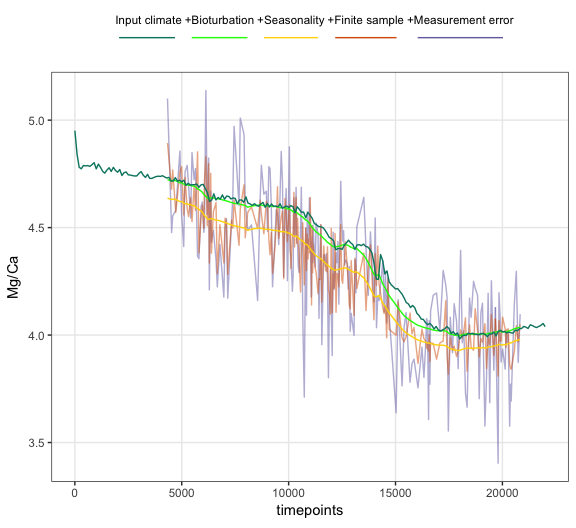
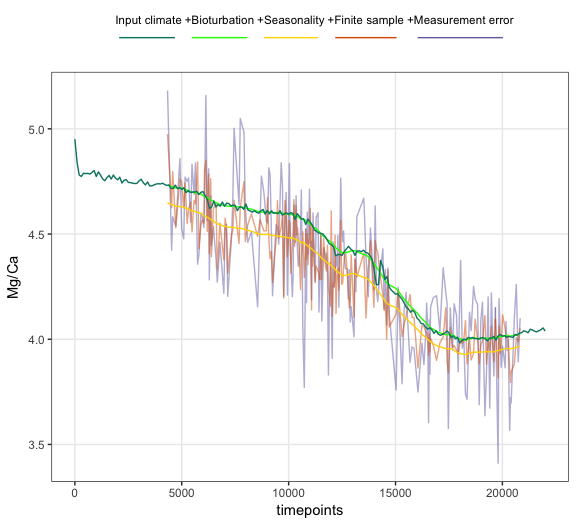
push example

diff --git a/readme.md b/readme.md
@@ -135,16 +135,16 @@ PFM$everything
 ## # A tibble: 8,213 x 4
 ##    timepoints replicate              stage    value
 ##         <dbl>     <dbl>              <chr>    <dbl>
-##  1       4334         1 proxy.bt.sb.sampYM 28.34462
-##  2       4527         1 proxy.bt.sb.sampYM 27.32945
-##  3       4576         1 proxy.bt.sb.sampYM 28.01622
-##  4       4721         1 proxy.bt.sb.sampYM 27.22198
-##  5       4914         1 proxy.bt.sb.sampYM 27.34826
-##  6       4994         1 proxy.bt.sb.sampYM 27.90423
-##  7       5092         1 proxy.bt.sb.sampYM 27.86784
-##  8       5156         1 proxy.bt.sb.sampYM 27.75665
-##  9       5254         1 proxy.bt.sb.sampYM 27.46941
-## 10       5318         1 proxy.bt.sb.sampYM 27.29800
+##  1       4334         1 proxy.bt.sb.sampYM 28.52609
+##  2       4527         1 proxy.bt.sb.sampYM 27.48838
+##  3       4576         1 proxy.bt.sb.sampYM 28.02794
+##  4       4721         1 proxy.bt.sb.sampYM 27.19180
+##  5       4914         1 proxy.bt.sb.sampYM 27.38228
+##  6       4994         1 proxy.bt.sb.sampYM 27.85321
+##  7       5092         1 proxy.bt.sb.sampYM 27.87501
+##  8       5156         1 proxy.bt.sb.sampYM 27.83270
+##  9       5254         1 proxy.bt.sb.sampYM 27.46396
+## 10       5318         1 proxy.bt.sb.sampYM 27.36841
 ## # ... with 8,203 more rows
 ```
 
@@ -174,11 +174,11 @@ PFM$everything %>%
 
 | timepoints|stage           |     1|     2|     3|     4|     5|     6|     7|     8|     9|    10|
 |----------:|:---------------|-----:|-----:|-----:|-----:|-----:|-----:|-----:|-----:|-----:|-----:|
-|       4334|simulated.proxy | 28.59| 27.24| 27.85| 27.82| 28.75| 27.67| 28.24| 27.61| 28.45| 27.48|
-|       4527|simulated.proxy | 27.39| 27.74| 27.18| 27.68| 28.97| 27.14| 26.70| 27.64| 28.06| 28.13|
-|       4576|simulated.proxy | 28.52| 27.93| 27.88| 27.69| 27.36| 27.86| 27.95| 28.40| 27.17| 27.99|
-|       4721|simulated.proxy | 27.72| 27.18| 28.37| 26.73| 27.36| 27.41| 28.22| 27.74| 27.84| 27.45|
-|       4914|simulated.proxy | 27.44| 27.90| 27.40| 29.15| 27.55| 28.36| 28.29| 28.63| 28.08| 28.43|
+|       4334|simulated.proxy | 28.77| 27.28| 27.85| 27.80| 28.83| 27.90| 28.39| 27.63| 28.57| 27.52|
+|       4527|simulated.proxy | 27.55| 27.73| 27.18| 27.61| 29.14| 27.14| 26.83| 27.58| 27.88| 28.17|
+|       4576|simulated.proxy | 28.53| 28.09| 27.86| 27.57| 27.48| 27.93| 27.80| 28.38| 27.12| 27.95|
+|       4721|simulated.proxy | 27.69| 27.16| 28.22| 26.93| 27.51| 27.33| 28.14| 27.70| 27.86| 27.49|
+|       4914|simulated.proxy | 27.47| 27.92| 27.46| 29.08| 27.44| 28.40| 28.46| 28.65| 28.04| 28.39|
 
 
 ### Proxy types
